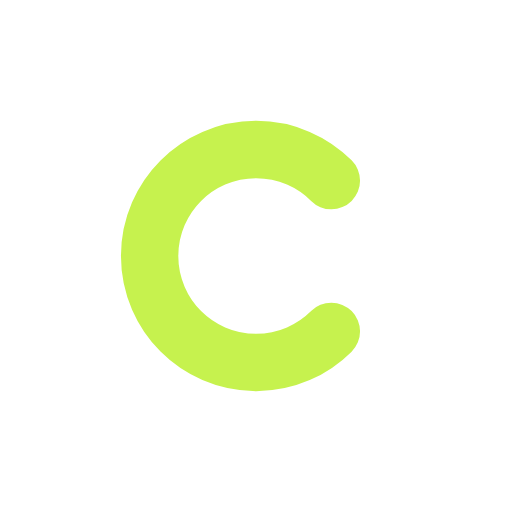
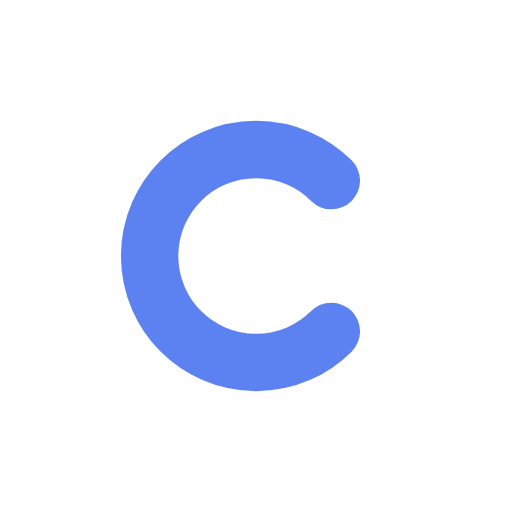
Swap the lime accent for royal blue
Accent fills, rings and links move to royal blue (#4169E1, with lighter
line and text shades for contrast on dark surfaces and white text on
fills). Good status gets its own green and info moves to teal so
neither is confused with the accent; places that used the green tint
as a brand colour use a new accentBg. The app icon, splash mark and
favicon are re-rendered with a blue C.

Claude-Session: https://claude.ai/code/session_01EZbhuiMSZFUTSw1DPbVPDr

Changed region(s): [[0.2188, 0.2188, 0.7188, 0.7812]]

diff --git a/src/constants/theme.ts b/src/constants/theme.ts
@@ -1,8 +1,8 @@
 /**
  * aCcountable design tokens (approved redesign, see docs/design/README.md).
  *
- * Lime has three roles because one value can't pass contrast everywhere:
- *   accent     – fills (primary buttons, selected chips, the C). Always pair with onAccent.
+ * Royal blue has three roles because one value can't pass contrast everywhere:
+ *   accent     – fills (primary buttons, selected chips). Always pair with onAccent (white).
  *   accentLine – rings, progress bars, chart lines (≥ 3:1 on surface).
  *   accentText – links, text buttons, active tab (≥ 4.5:1 on surface).
  * Data and status hues are used as text only on `bg` or `surface`.
@@ -18,11 +18,12 @@ const base = {
     text: '#F2F4EC',
     text2: '#A9AD9F',
     text3: '#878B7E',
-    accent: '#C6F24E',
-    accentPressed: '#B0DA3C',
-    onAccent: '#1A2400',
-    accentLine: '#C6F24E',
-    accentText: '#C6F24E',
+    accent: '#4169E1',
+    accentPressed: '#3457C4',
+    onAccent: '#FFFFFF',
+    accentLine: '#5B82F0',
+    accentText: '#8AA6FF',
+    accentBg: 'rgba(65,105,225,0.20)',
     protein: '#FF7BAC',
     carbs: '#55C2FF',
     fat: '#FFC94D',
@@ -33,14 +34,14 @@ const base = {
     alertPressed: '#E9534A',
     onAlert: '#1A0705',
     warn: '#FF9F43',
-    info: '#7FA8FF',
-    good: '#C6F24E',
+    info: '#3FD0C9',
+    good: '#4ADE80',
     alertBg: 'rgba(255,99,89,0.14)',
     warnBg: 'rgba(255,159,67,0.14)',
-    infoBg: 'rgba(127,168,255,0.14)',
-    goodBg: 'rgba(198,242,78,0.12)',
+    infoBg: 'rgba(63,208,201,0.14)',
+    goodBg: 'rgba(74,222,128,0.13)',
     pastFill: '#5E6257',
-    switchOn: '#C6F24E',
+    switchOn: '#4169E1',
     floatBg: 'rgba(33,36,31,0.96)',
     floatBorder: 'rgba(255,255,255,0.08)',
     shadow: 'transparent',
@@ -59,11 +60,12 @@ const base = {
     text: '#11130E',
     text2: '#55594E',
     text3: '#686C61',
-    accent: '#C6F24E',
-    accentPressed: '#B0DA3C',
-    onAccent: '#1A2400',
-    accentLine: '#557F00',
-    accentText: '#476B00',
+    accent: '#4169E1',
+    accentPressed: '#3457C4',
+    onAccent: '#FFFFFF',
+    accentLine: '#4169E1',
+    accentText: '#2F55CC',
+    accentBg: '#E6ECFB',
     protein: '#C92F6B',
     carbs: '#0B73B0',
     fat: '#9A6400',
@@ -74,14 +76,14 @@ const base = {
     alertPressed: '#B2271F',
     onAlert: '#FFFFFF',
     warn: '#B25500',
-    info: '#2D5BD1',
-    good: '#476B00',
+    info: '#0B7A75',
+    good: '#1E7F3C',
     alertBg: '#FBE7E5',
     warnBg: '#FBEDDD',
-    infoBg: '#E7EDFB',
-    goodBg: '#ECF4D6',
+    infoBg: '#DDF3F1',
+    goodBg: '#E3F4E8',
     pastFill: '#9DA194',
-    switchOn: '#557F00',
+    switchOn: '#4169E1',
     floatBg: 'rgba(255,255,255,0.97)',
     floatBorder: 'rgba(17,19,14,0.08)',
     shadow: '#11130E',

diff --git a/src/app/scan.tsx b/src/app/scan.tsx
@@ -304,7 +304,7 @@ export default function ScanScreen() {
         {!photo ? (
           <>
             <Card hero style={{ alignItems: 'center', paddingTop: Spacing.xxxl, paddingHorizontal: Spacing.xxl, paddingBottom: 28, gap: Spacing.md }}>
-              <View style={{ width: 72, height: 72, borderRadius: 24, backgroundColor: c.goodBg, alignItems: 'center', justifyContent: 'center' }}>
+              <View style={{ width: 72, height: 72, borderRadius: 24, backgroundColor: c.accentBg, alignItems: 'center', justifyContent: 'center' }}>
                 <Icon name="camera" size={34} color={c.accentText} strokeWidth={1.8} />
               </View>
               <T variant="title" style={{ textAlign: 'center' }}>
@@ -508,7 +508,7 @@ function PhotoView({ uri, analysing }: { uri: string; analysing: boolean }) {
       <Image source={{ uri }} style={{ width: '100%', height: '100%', opacity: analysing ? 0.45 : 1 }} contentFit="cover" />
       {analysing && !reduceMotion ? (
         <Animated.View pointerEvents="none" style={[{ position: 'absolute', left: 0, right: 0, top: 0, height: 46 }, band]}>
-          <View style={{ height: 44, backgroundColor: c.goodBg }} />
+          <View style={{ height: 44, backgroundColor: c.accentBg }} />
           <View style={{ height: 2, backgroundColor: c.accentLine }} />
         </Animated.View>
       ) : null}
@@ -560,7 +560,7 @@ function Bubble({ text, mine }: { text: string; mine?: boolean }) {
         maxWidth: 280,
         paddingHorizontal: 14,
         paddingVertical: 9,
-        backgroundColor: mine ? c.raised : c.goodBg,
+        backgroundColor: mine ? c.raised : c.accentBg,
         borderTopLeftRadius: 18,
         borderTopRightRadius: 18,
         borderBottomLeftRadius: mine ? 18 : 6,

diff --git a/src/components/tiles.tsx b/src/components/tiles.tsx
@@ -52,7 +52,7 @@ export type PillTone = 'good' | 'info' | 'plain' | 'training';
 export function StatusPill({ label, tone }: { label: string; tone: PillTone }) {
   const c = useTheme();
   const bg = { good: c.goodBg, info: c.infoBg, plain: c.raised, training: c.trainingBg }[tone];
-  const fg = { good: c.accentText, info: c.info, plain: c.text2, training: c.training }[tone];
+  const fg = { good: c.good, info: c.info, plain: c.text2, training: c.training }[tone];
   return (
     <View style={{ alignSelf: 'flex-start', height: 28, paddingHorizontal: 10, borderRadius: 14, backgroundColor: bg, justifyContent: 'center' }}>
       <Text maxFontSizeMultiplier={1.3} style={{ fontSize: 12, fontWeight: '600', color: fg }} numberOfLines={1}>

diff --git a/src/components/tab-header.tsx b/src/components/tab-header.tsx
@@ -49,7 +49,7 @@ export function TabHeader({
               accessibilityLabel={back.label}
               onPress={back.onPress}
               hitSlop={6}
-              style={{ height: 32, paddingHorizontal: 12, borderRadius: 16, backgroundColor: c.goodBg, justifyContent: 'center' }}>
+              style={{ height: 32, paddingHorizontal: 12, borderRadius: 16, backgroundColor: c.accentBg, justifyContent: 'center' }}>
               <T color={c.accentText} style={{ fontSize: 13, fontWeight: '700' }}>
                 ↩ {back.label.replace(/^Back to /, '').replace(/^./, (s) => s.toUpperCase())}
               </T>

diff --git a/src/components/hero.tsx b/src/components/hero.tsx
@@ -236,7 +236,7 @@ export function WeekStrip({
           maxFontSizeMultiplier={1.3}
           style={{ flex: 1, fontSize: 13, lineHeight: 18, fontVariant: ['tabular-nums'] }}
           numberOfLines={2}>
-          <Text style={{ fontWeight: '600', color: summary.tone === 'good' ? c.accentText : dot }}>{summary.head}</Text>
+          <Text style={{ fontWeight: '600', color: dot }}>{summary.head}</Text>
           <Text style={{ color: c.text2 }}> {summary.tail}</Text>
         </Text>
         {interactive ? <Icon name="chevron-right" size={16} color={c.text3} strokeWidth={2.2} /> : null}
